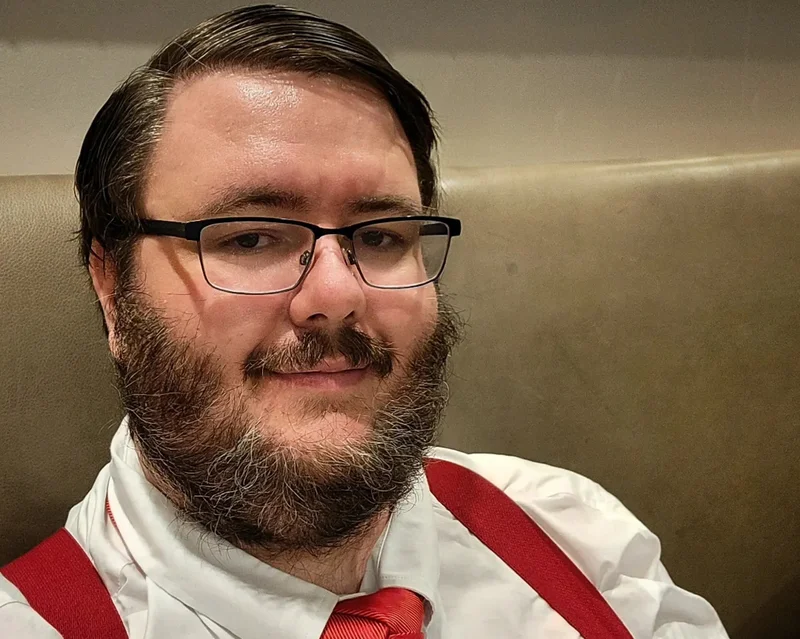
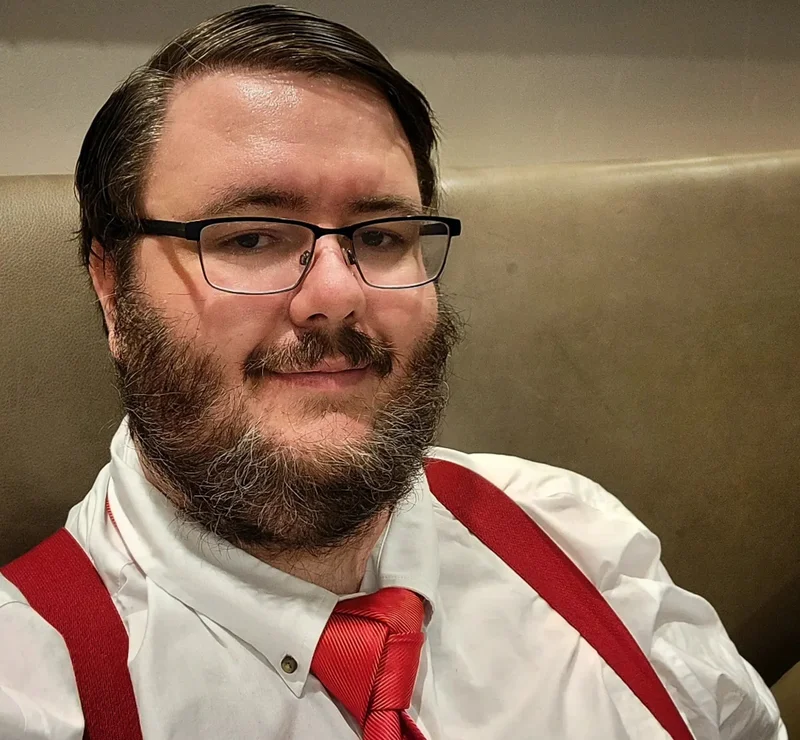
fix: portrait — no crop, remove forced 3:4 aspect ratio
The source image is nearly square (1440x1332). Previous versions
cropped it via ImageMagick AND via CSS (aspect-ratio: 3/4 + object-fit:
cover), double-cutting the sides and losing the top of the head.

Fix: resize to 800px with zero crop, remove the forced aspect-ratio
from .about-portrait CSS. The image's natural proportions now display
as-is.

diff --git a/src/assets/css/main.css b/src/assets/css/main.css
@@ -1935,11 +1935,14 @@ p + p {
 	}
 }
 
+/* aspect-ratio removed — the source image's natural proportions determine
+   the shape. The previous 3:4 forced crop was cutting off the sides of
+   wider portraits. object-fit: cover is kept as a safety net in case a
+   future image has different proportions, but with no forced aspect-ratio
+   it only activates if width/height constraints conflict. */
 .about-portrait {
 	border-radius: var(--radius-md);
 	border: 1px solid var(--border-subtle);
-	aspect-ratio: 3/4;
-	object-fit: cover;
 	width: 100%;
 	background: var(--bg-surface);
 }
